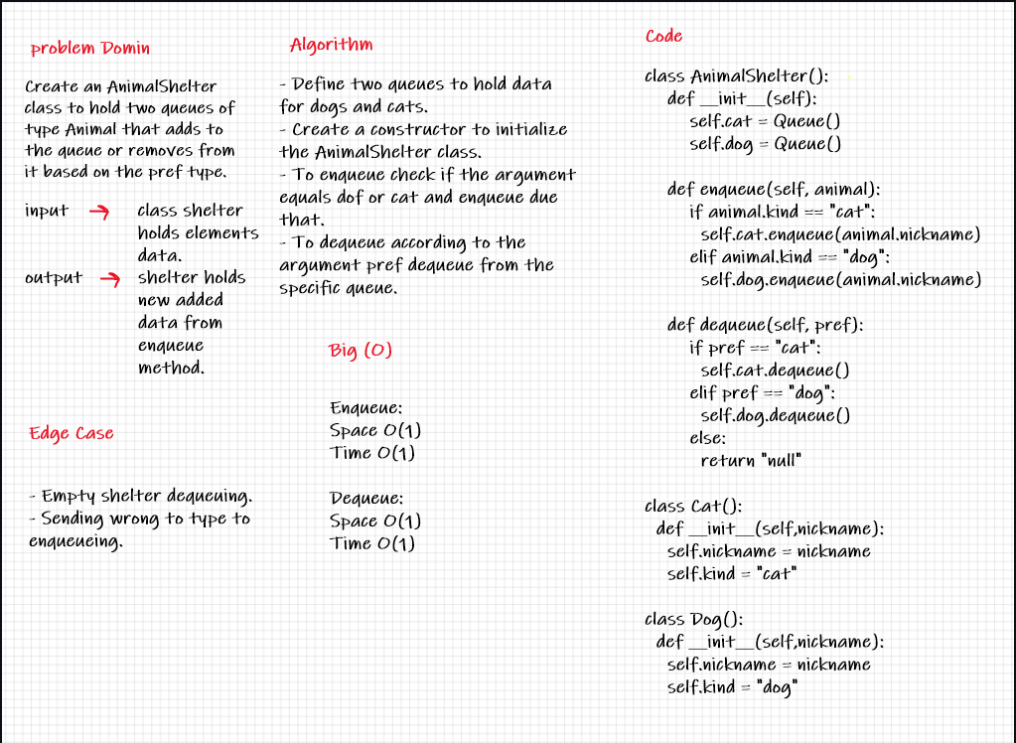
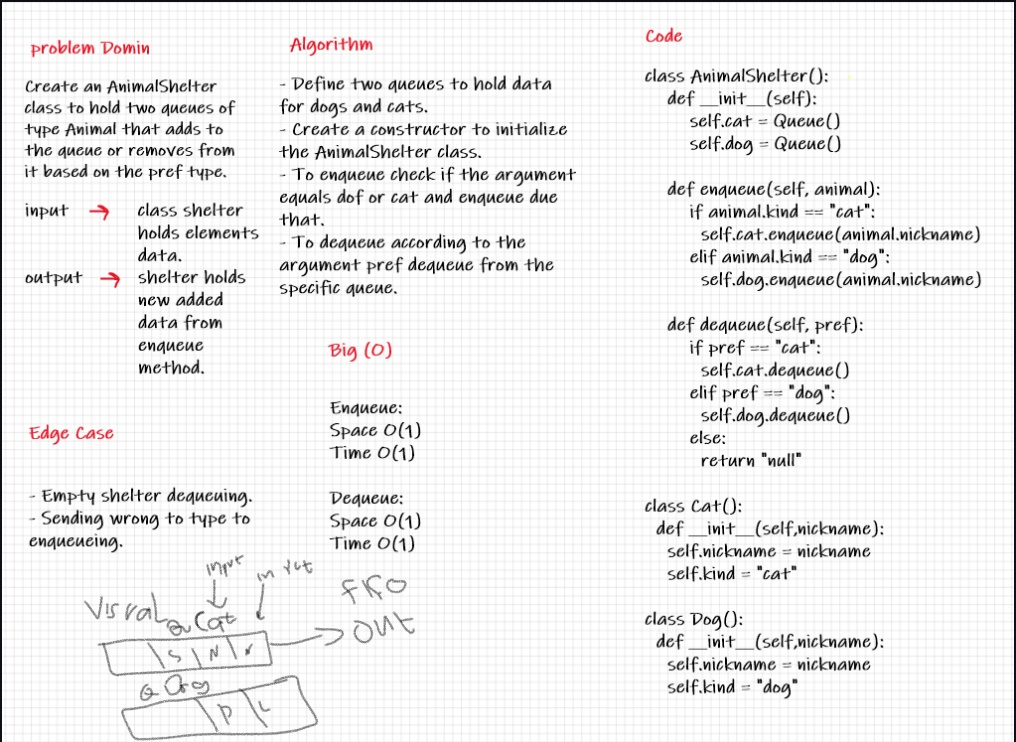
add docstring and visual on whiteboard

diff --git a/python/challenges/stack_queue_animal_shelter/stack_queue_animal_shelter.py b/python/challenges/stack_queue_animal_shelter/stack_queue_animal_shelter.py
@@ -3,17 +3,27 @@ from challenges.stack_and_queue.queue import Queue
 
 
 class AnimalShelter():
+    """
+    define a class AnimalShelter that save cats and dogs to find a  shelter for these animal. 
+    """
     def __init__(self):
         self.cat = Queue()
         self.dog = Queue()
 
     def enqueue(self, animal):
+        """
+        check if the animal is cat or dog then add it to the queue. 
+        """
         if animal.kind == "cat":
           self.cat.enqueue(animal.nickname)
         elif animal.kind == "dog":
           self.dog.enqueue(animal.nickname)
       
     def dequeue(self, pref):
+        """
+        check if the animal is cat or dog then delete the animal from queue that
+         because it find how want to tack care of this animal.
+        """
         if pref == "cat":
           self.cat.dequeue()
         elif pref == "dog":
@@ -23,11 +33,17 @@ class AnimalShelter():
 
 
 class Cat():
+  """
+  define a class called Cat to made an objest for cat
+  """
   def __init__(self,nickname):
     self.nickname = nickname
     self.kind = "cat"
     
 class Dog():
+  """
+  define a class called Dog to made an objest for dog
+  """
   def __init__(self,nickname):
     self.nickname = nickname
     self.kind = "dog"
